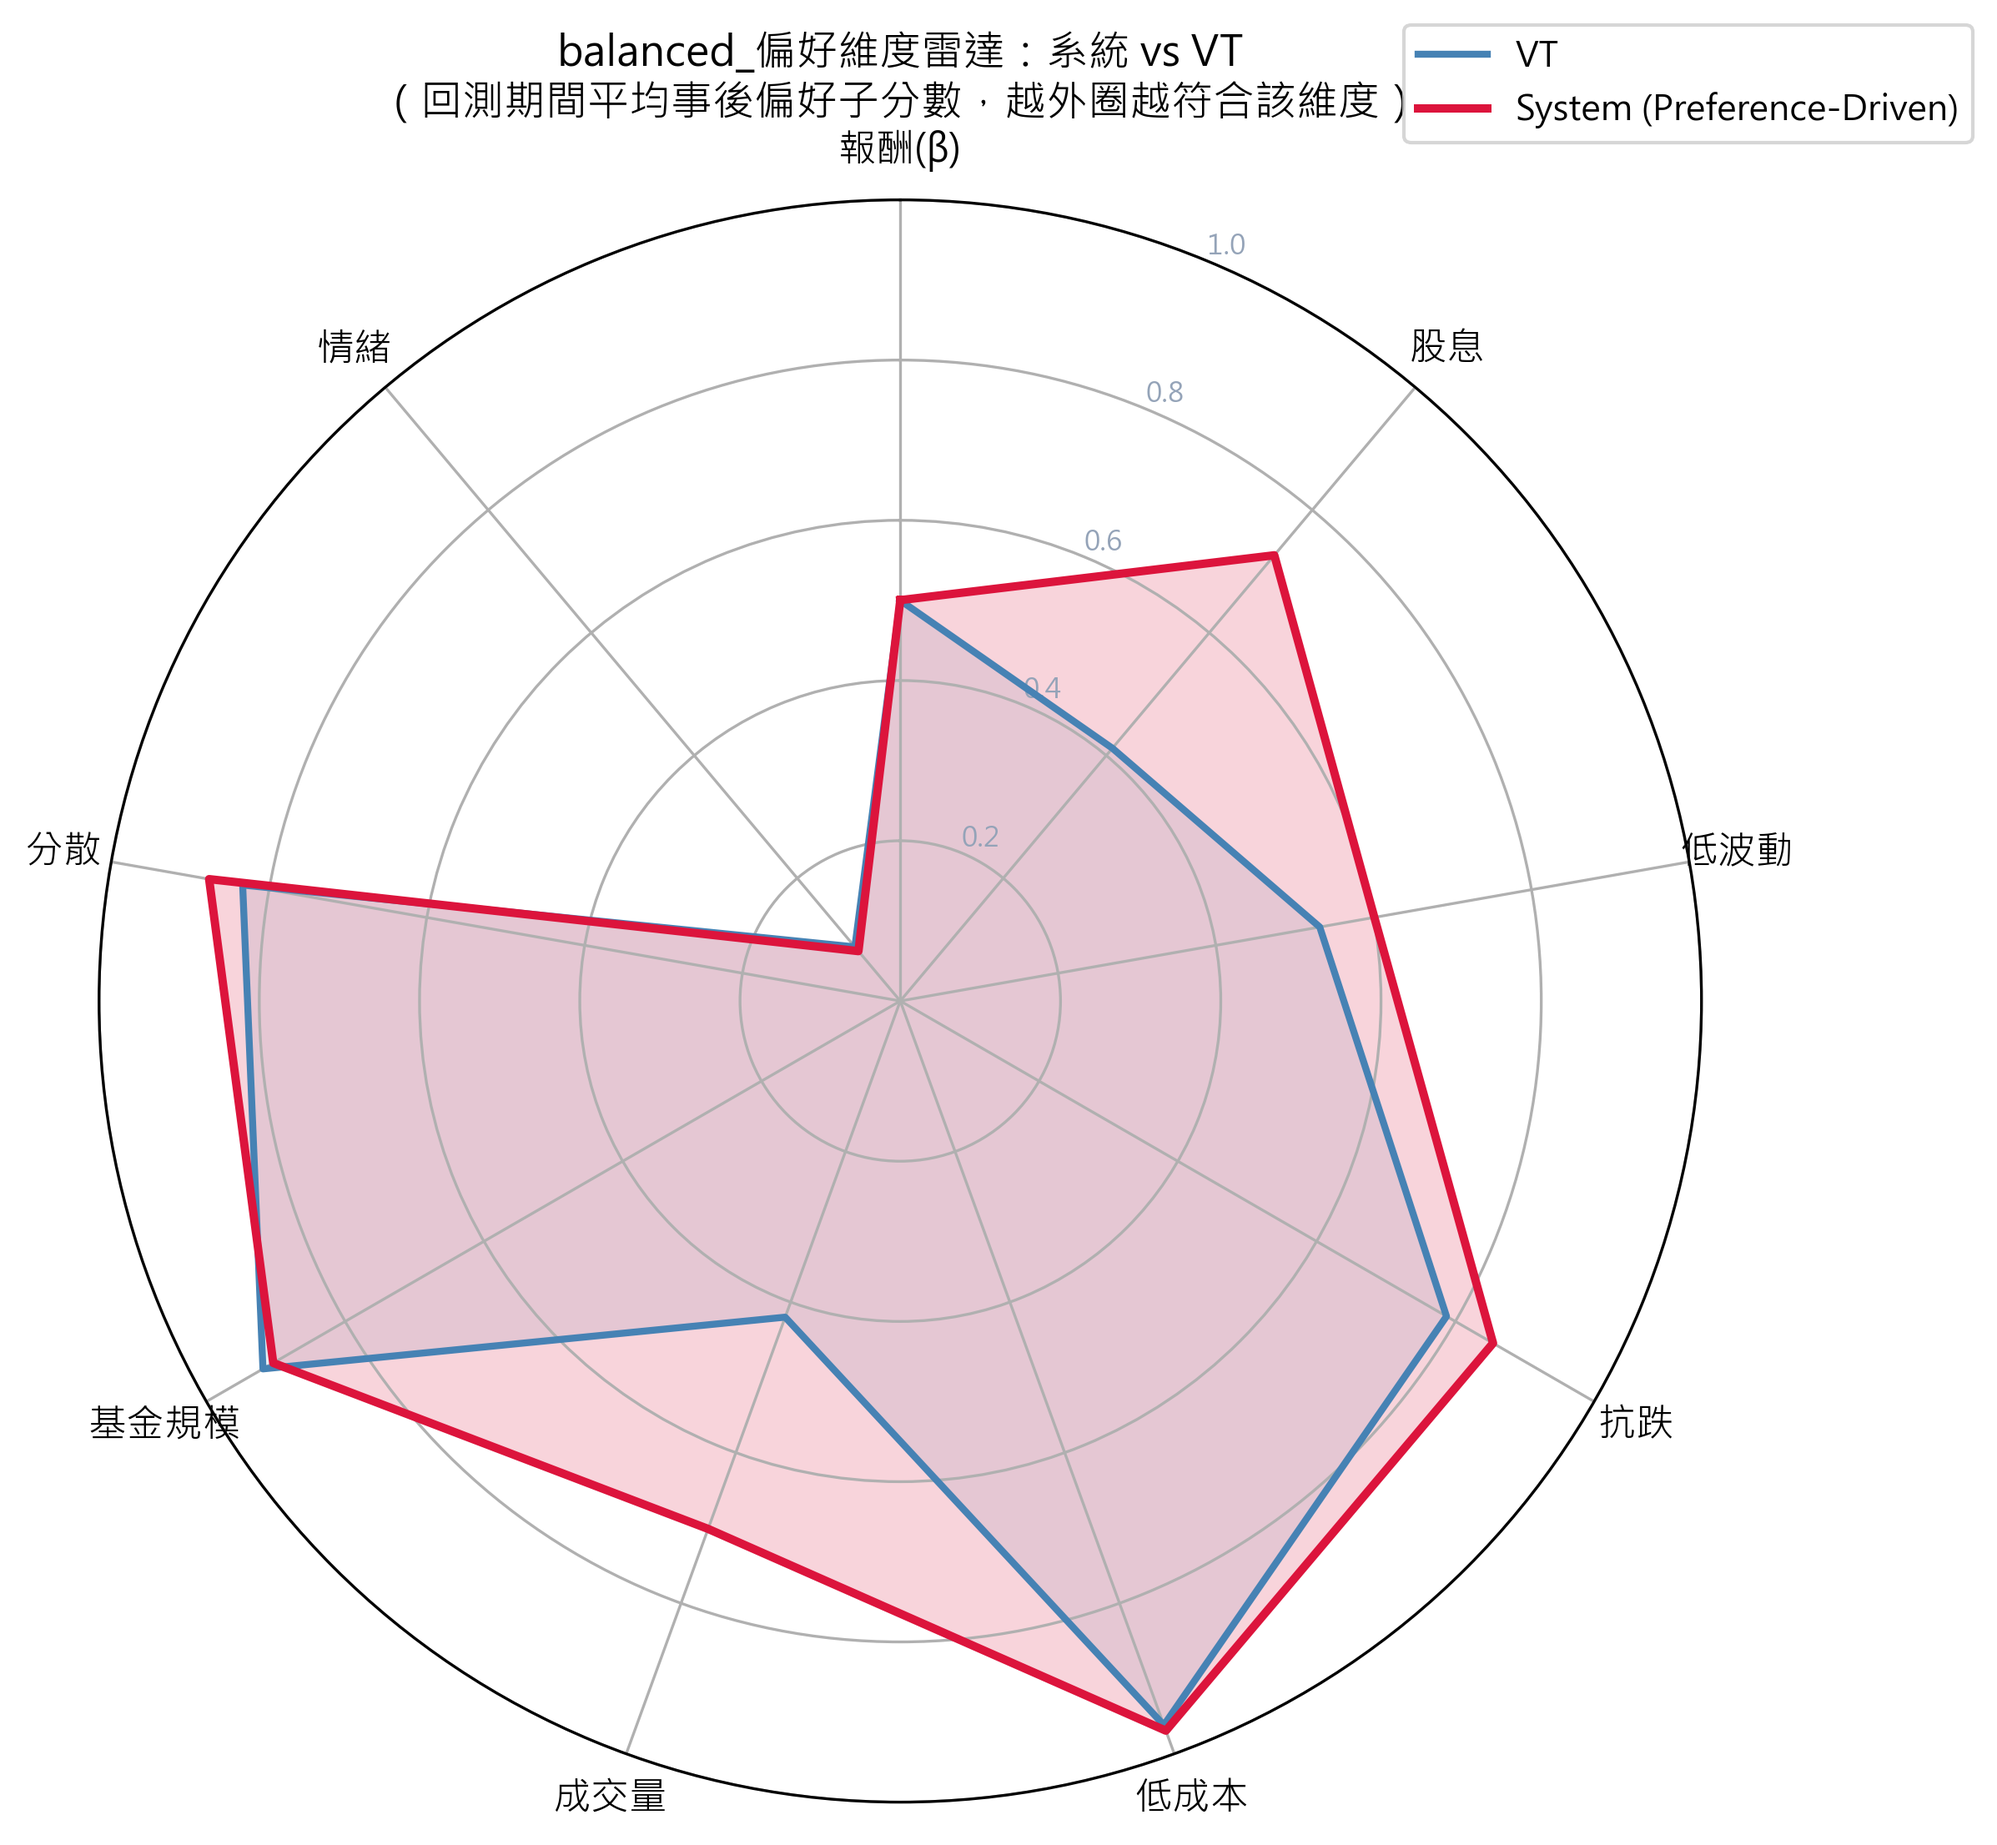
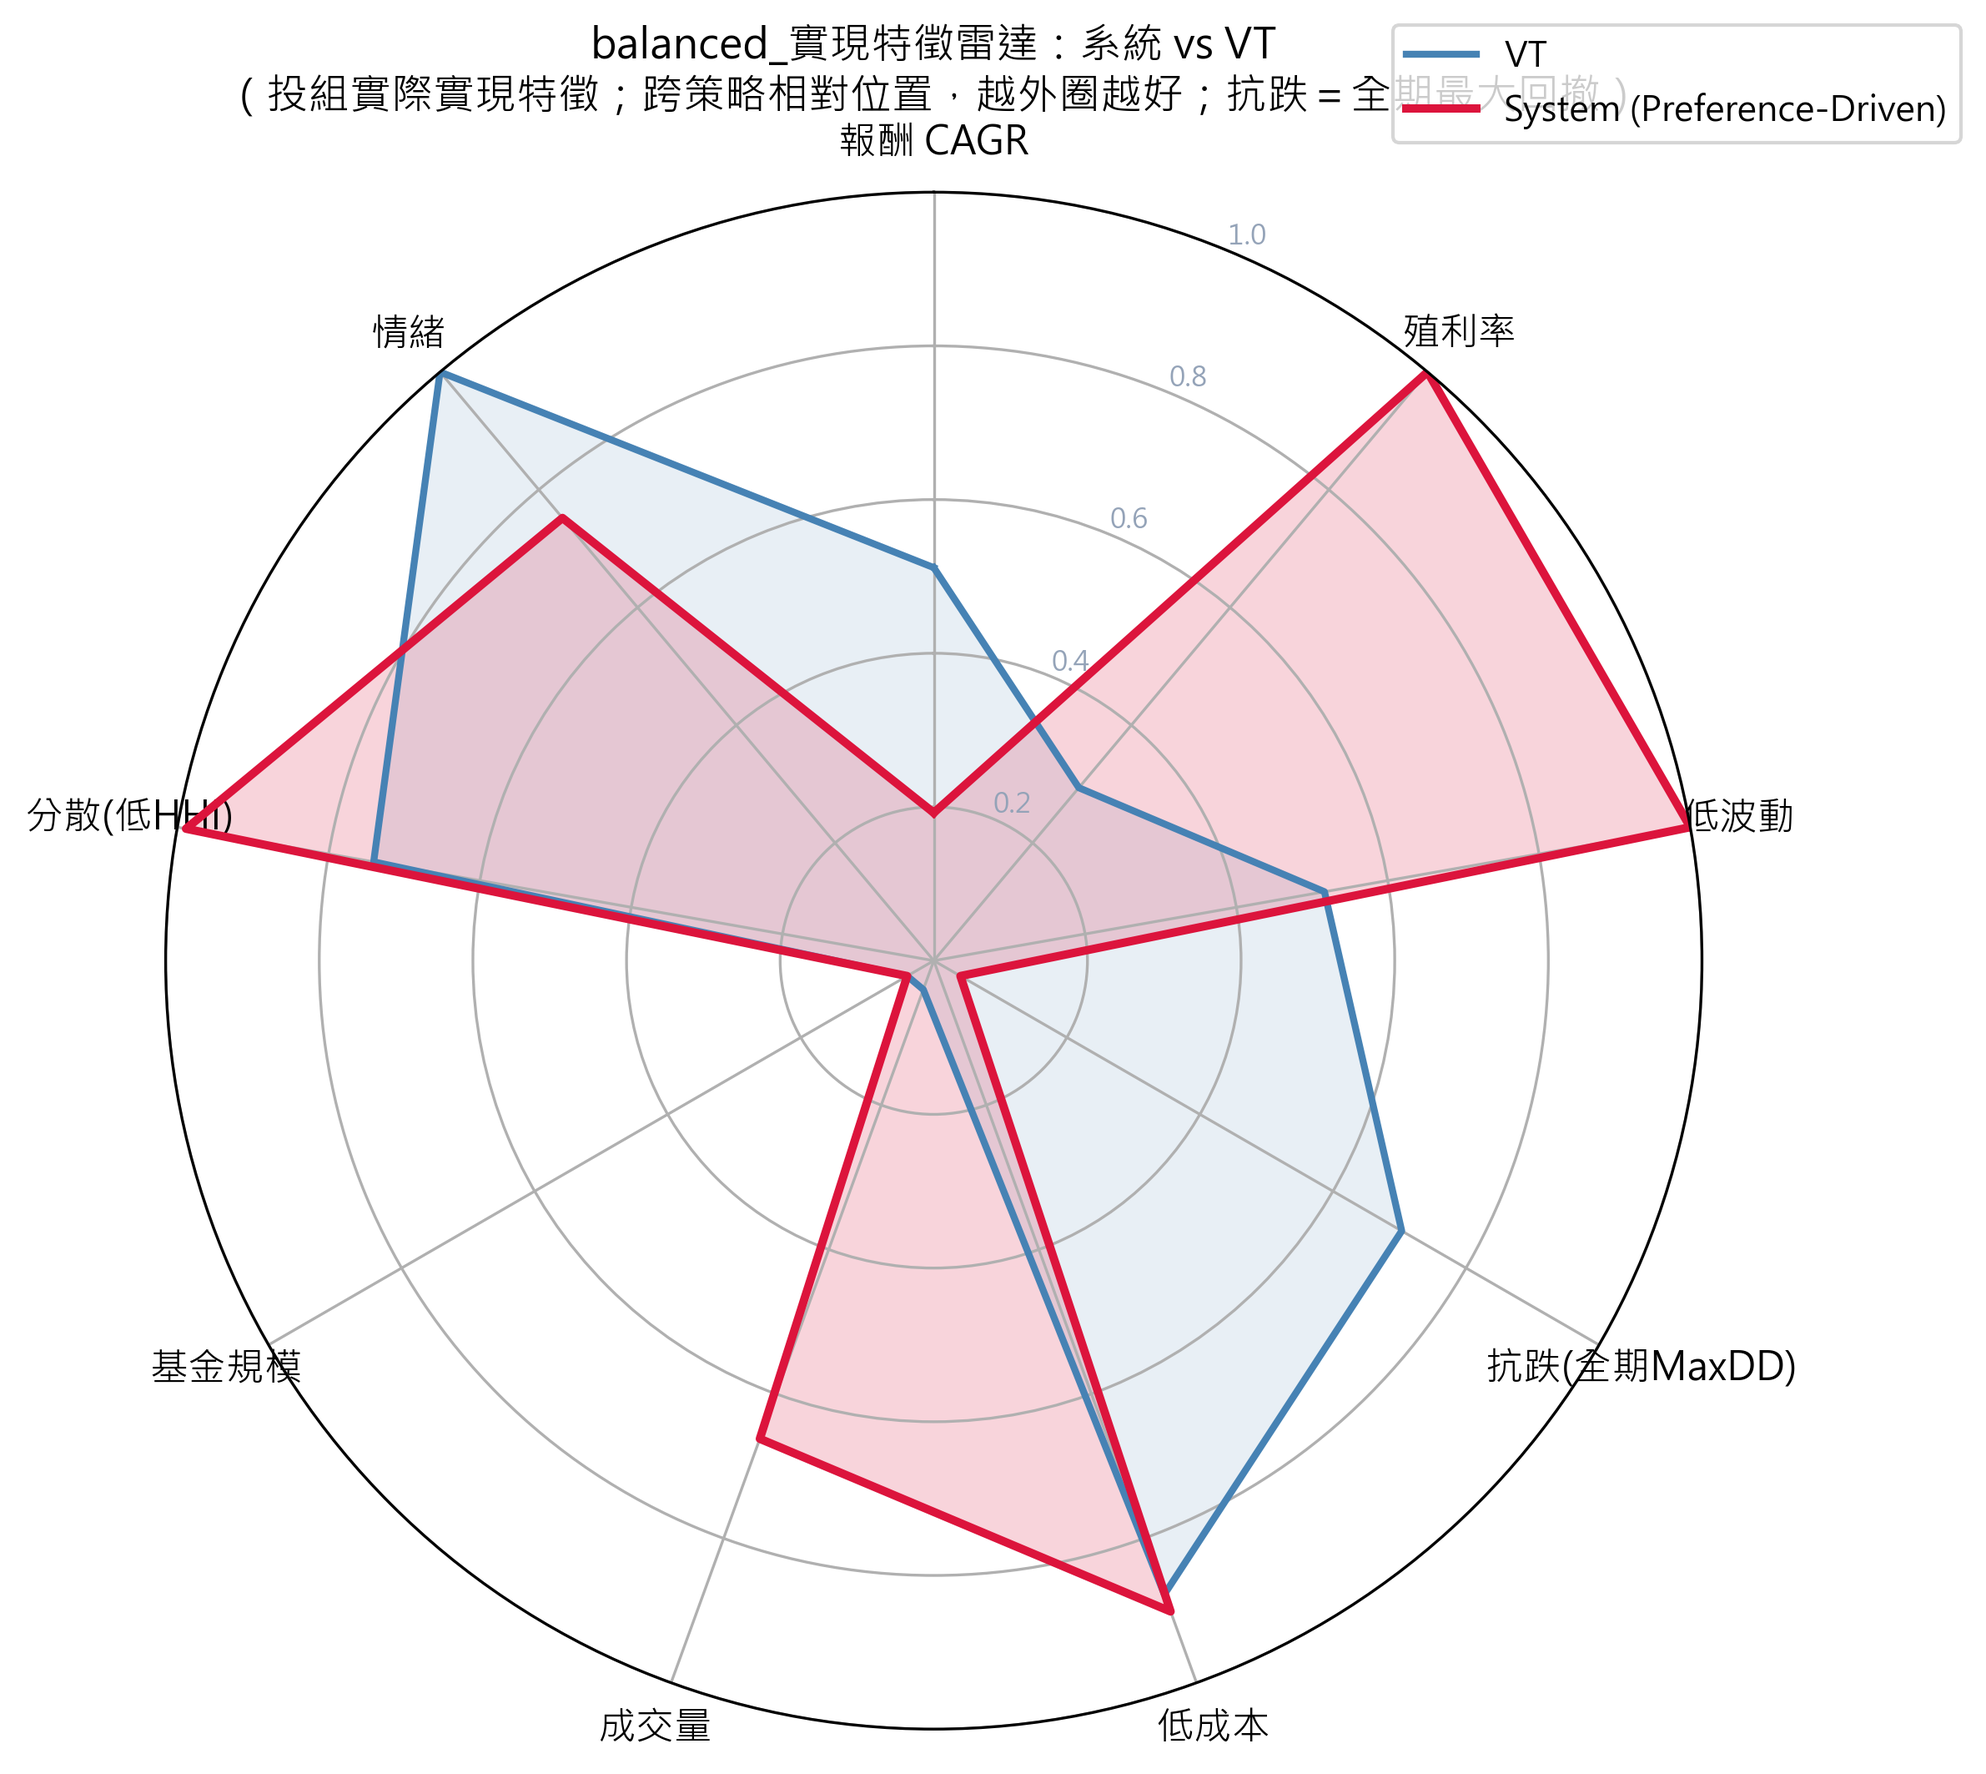
Backtest radar -> realized-characteristics (fix MaxDD axis contradiction)
The radar's 抗跌 axis used per-period forward sub-scores (System often > VT),
but the headline MaxDD is the full-period worst (System deeper than VT) -> the
radar said System won drawdown while the summary said it lost. Per user choice,
rebuilt the radar on realized characteristics from dimension_comparison_df: 9
axes use actual realized metrics (CAGR, dividend yield, vol, FULL-period MaxDD,
expense, volume, AUM, sector HHI, sentiment), min-max normalized across all
strategies. 抗跌 now uses full-period Max_Drawdown_% -> consistent with the
headline and the showcase multi-dim table. Regenerated all 7 showcase radars.
Output filename unchanged; win_VT still shown via V-6 and the summary cards.

diff --git a/etf_web/static/app.js b/etf_web/static/app.js
@@ -243,7 +243,7 @@ function renderBacktest(fm) {
   const parts = [
     imgBlock(fm.nav, "淨值曲線（各策略 vs VT/VOO）"),
     imgBlock(fm.metrics_comparison, "關鍵指標對照（vs VT）"),
-    imgBlock(fm.backtest_radar, "偏好維度雷達：系統 vs VT"),
+    imgBlock(fm.backtest_radar, "實現特徵雷達：系統 vs VT（抗跌＝全期最大回撤，與上方一致）"),
     imgBlock(fm.v6, "偏好分數樣本外勝率時序（V-6）"),
   ].filter(Boolean).join("");
   box.innerHTML = parts || `<p class="muted">本次未產生回測圖。</p>`;

diff --git a/backtest_engine.py b/backtest_engine.py
@@ -2128,39 +2128,55 @@ def _plot_preference_score_timeseries(
 
 
 def _plot_backtest_preference_radar(
-    preference_scores_df: pd.DataFrame,
+    dimension_df: pd.DataFrame,
     output_path: Path,
     benchmark_label: str = "VT",
     title_prefix: str = "",
 ) -> None:
-    """偏好維度雷達（回測）：系統(紅) vs 基準(藍)，9 維事後(forward)偏好子分數的回測期間平均。
-    一眼看出「相對使用者偏好，系統在哪些維度勝過 VT」。純診斷分數，不碰最佳化邏輯。
-    使用修正後的共同跨截面 MaxDD 尺度，故各維可公平比較。"""
-    if preference_scores_df is None or preference_scores_df.empty:
+    """實現特徵雷達（回測）：系統(紅) vs 基準(藍)，9 維用投組**實際實現的特徵**。
+    抗跌軸＝**全期最大回撤**（與摘要卡/績效圖一致，避免「每期子分數」與「全期 MaxDD」口徑矛盾）。
+    各軸跨所有策略 min-max 正規化（越外圈＝相對越好）。純展示，不碰最佳化邏輯。"""
+    if dimension_df is None or dimension_df.empty or "Strategy" not in dimension_df.columns:
         return
-    dims = [
-        ("Score_Return_CAGR", "報酬(β)"), ("Score_Return_Div", "股息"),
-        ("Score_Risk_Vol", "低波動"), ("Score_Risk_MaxDD", "抗跌"),
-        ("Score_Cost", "低成本"), ("Score_Liq_Volume", "成交量"),
-        ("Score_Liq_AUM", "基金規模"), ("Score_Div_Score", "分散"),
-        ("Score_FinBERT", "情緒"),
+    # (顯示標籤, 欄位, 方向 +1=越大越好/-1=越小越好)
+    specs_all = [
+        ("報酬 CAGR", "CAGR_%", +1),
+        ("殖利率", "Avg_Raw_Dividend_Yield_%", +1),
+        ("低波動", "Annualized_Volatility_%", -1),
+        ("抗跌(全期MaxDD)", "Max_Drawdown_%", +1),       # 負值，越接近 0（越大）越好
+        ("低成本", "Avg_Raw_Expense_Ratio_%", -1),
+        ("成交量", "Avg_Raw_Liquidity_Volume_M", +1),
+        ("基金規模", "Avg_Raw_Liquidity_AUM_B", +1),
+        ("分散(低HHI)", "Avg_Raw_Sector_HHI", -1),
+        ("情緒", "Avg_Raw_FinBERT_Score", +1),
     ]
-
-    def _means(role_prefix):
-        vals = []
-        for key, _lab in dims:
-            col = f"{role_prefix}_{key}"
-            if col not in preference_scores_df.columns:
-                return None
-            vals.append(float(pd.to_numeric(preference_scores_df[col], errors="coerce").mean()))
-        return vals
-
-    sys_vals = _means("Portfolio_Forward")
-    vt_vals = _means("Benchmark_Forward")
-    if sys_vals is None or vt_vals is None:
+    specs = [(lab, col, d) for lab, col, d in specs_all if col in dimension_df.columns]
+    if not specs:
+        return
+    df = dimension_df.drop_duplicates(subset="Strategy").set_index("Strategy")
+    sys_name = "Preference_Driven"
+    if sys_name not in df.index or benchmark_label not in df.index:
         return
 
-    labels = [lab for _k, lab in dims]
+    def _scaler(col, direction):
+        s = pd.to_numeric(df[col], errors="coerce")
+        vmin, vmax = float(s.min()), float(s.max())
+
+        def sc(v):
+            v = pd.to_numeric(v, errors="coerce")
+            if pd.isna(v) or vmax <= vmin:
+                return 0.5
+            t = (float(v) - vmin) / (vmax - vmin)   # 值越大 → 1
+            return t if direction > 0 else (1.0 - t)
+        return sc
+
+    sys_vals, vt_vals = [], []
+    for lab, col, d in specs:
+        f = _scaler(col, d)
+        sys_vals.append(max(f(df.loc[sys_name, col]), 0.04))   # 下限 0.04，最差者仍可見
+        vt_vals.append(max(f(df.loc[benchmark_label, col]), 0.04))
+
+    labels = [lab for lab, _c, _d in specs]
     angles = np.linspace(0, 2 * np.pi, len(labels), endpoint=False).tolist()
     angles += angles[:1]
     sys_p = sys_vals + sys_vals[:1]
@@ -2186,8 +2202,8 @@ def _plot_backtest_preference_radar(
     ax.plot(angles, sys_p, color="crimson", linewidth=2.4, label="System (Preference-Driven)")
     ax.fill(angles, sys_p, color="crimson", alpha=0.18)
     ax.set_title(
-        f"{title_prefix}偏好維度雷達：系統 vs {benchmark_label}\n"
-        f"（回測期間平均事後偏好子分數，越外圈越符合該維度）",
+        f"{title_prefix}實現特徵雷達：系統 vs {benchmark_label}\n"
+        f"（投組實際實現特徵；跨策略相對位置，越外圈越好；抗跌＝全期最大回撤）",
         fontsize=12, pad=24,
     )
     ax.legend(loc="upper right", bbox_to_anchor=(1.18, 1.12), fontsize=10)
@@ -2443,7 +2459,7 @@ def _write_unified_backtest_report(
             benchmark_label=config.benchmark_ticker,
         )
         _plot_backtest_preference_radar(
-            preference_scores_df,
+            dimension_comparison_df,
             png_dir / f"{prefix}_preference_radar_vs_benchmark.png",
             benchmark_label=config.benchmark_ticker,
         )

diff --git a/system_upgrade_records/02_algorithm_upgrade_change_log.md b/system_upgrade_records/02_algorithm_upgrade_change_log.md
@@ -1058,6 +1058,13 @@ VT 參考 CAGR 13.51%。問題：傾斜目標 s 含資本利得排名(Norm_Retur
 - 已把三項改動接進 `etf_web/app.py`：① `_ENGINE_LOCK` 雙重檢查鎖 ② 模組載入即啟動 `_warmup()` daemon 執行緒（伺服器一開就預載 BGE-M3，首問不空等）③ `_finish` 擷取 `engine.history` 存 `_S["last_trace"]`，`/api/pref/weights` 回傳 `trace`（供學術留存/前端日後呈現）。
 - 驗證：app.py 編譯 OK；引擎含 `self.history`。
 
+## 2026-06-06：回測雷達改「實現特徵雷達」（修抗跌口徑矛盾，使用者確認）
+
+狀態：完成。**問題**：原雷達抗跌軸用「每期 forward 子分數平均」（income System 0.911 > VT 0.787，96% 期勝），但摘要/績效圖的抗跌是「**全期最大回撤**」（income System −38.45% 比 VT −33.72% 深）→ 雷達說系統贏、頭條說系統輸，口徑矛盾。
+- **修法（使用者選「實現特徵雷達」）**：`_plot_backtest_preference_radar` 改吃 `dimension_comparison_df`，9 軸全用投組**實際實現特徵**：CAGR_%、Avg_Raw_Dividend_Yield_%、Annualized_Volatility_%(反向)、**Max_Drawdown_%(全期)**、Avg_Raw_Expense_Ratio_%(反向)、Avg_Raw_Liquidity_Volume_M、Avg_Raw_Liquidity_AUM_B、Avg_Raw_Sector_HHI(反向)、Avg_Raw_FinBERT_Score；跨所有策略 min-max 正規化（下限 0.04），畫 System(紅) vs VT(藍)。標題改「實現特徵雷達…抗跌＝全期最大回撤」。
+- 結果：income 雷達抗跌 VT 在外（系統較深、輸）→ 與頭條/§5 一致；殖利率/低波動/分散 系統明顯在外（income 強項）。各 profile 重生 7 張。
+- 接點不變：仍輸出 `{prefix}_preference_radar_vs_benchmark.png`，dashboard `figures_map` 照抓；前端 caption 改「實現特徵雷達…」。win_VT（偏好分數）仍由 V-6 與摘要卡呈現，與本雷達各司其職。
+
 ## 6. 改動紀錄模板
 
 ## 7. 下一個聊天室交接注意事項
